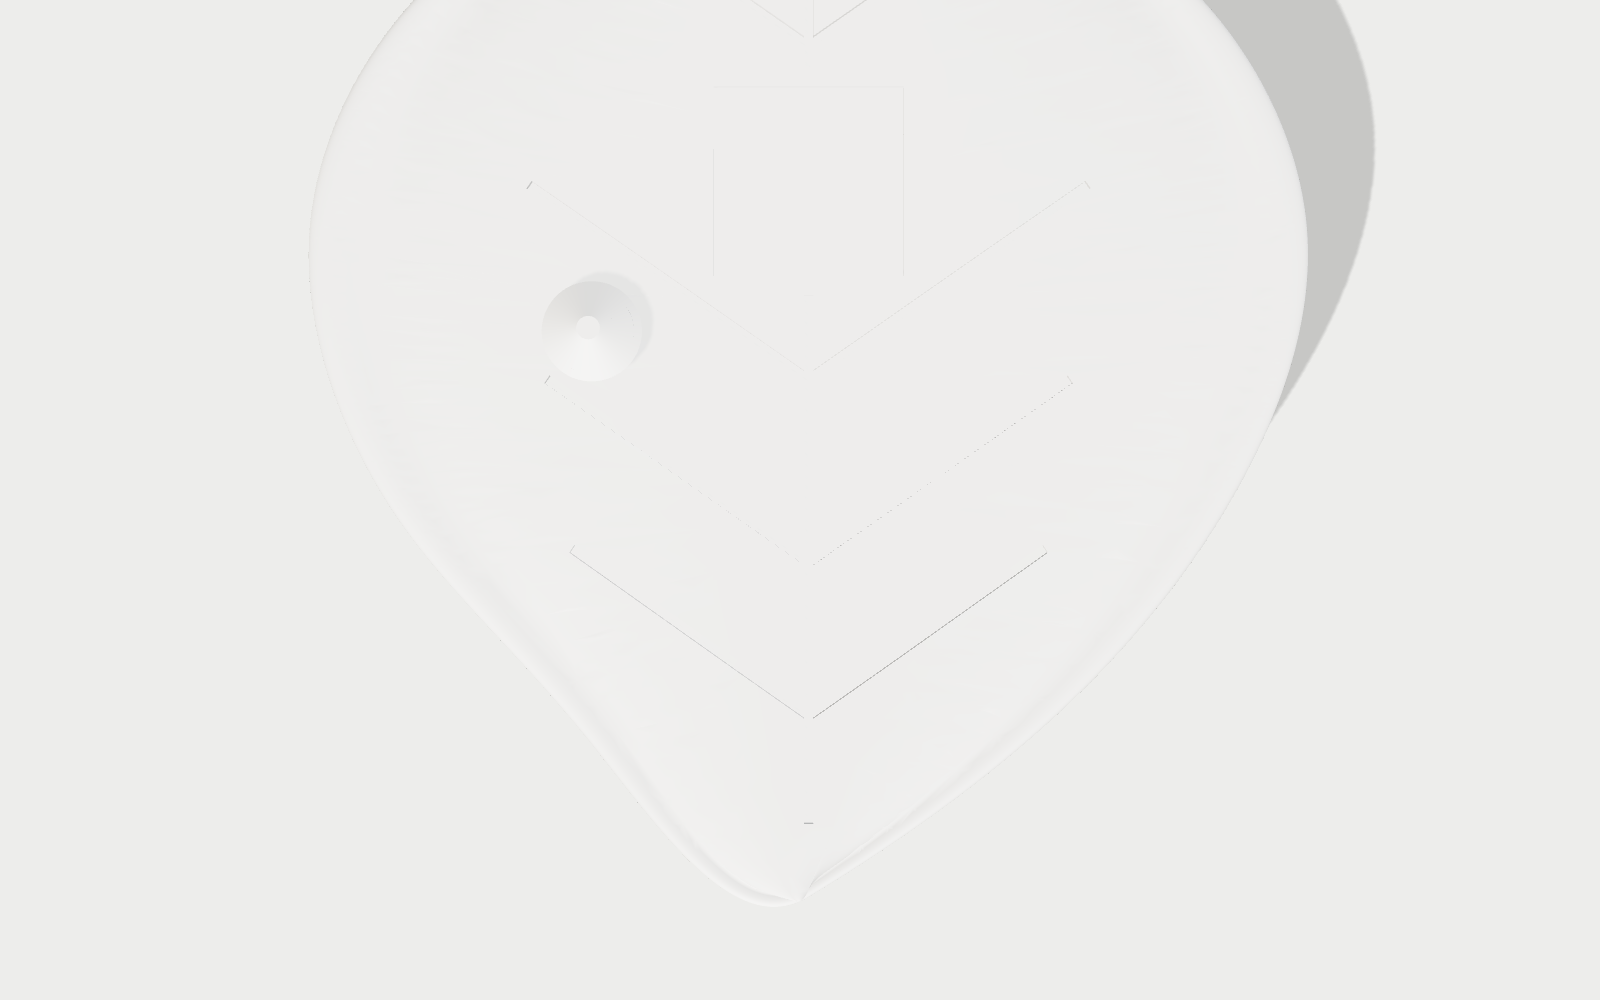
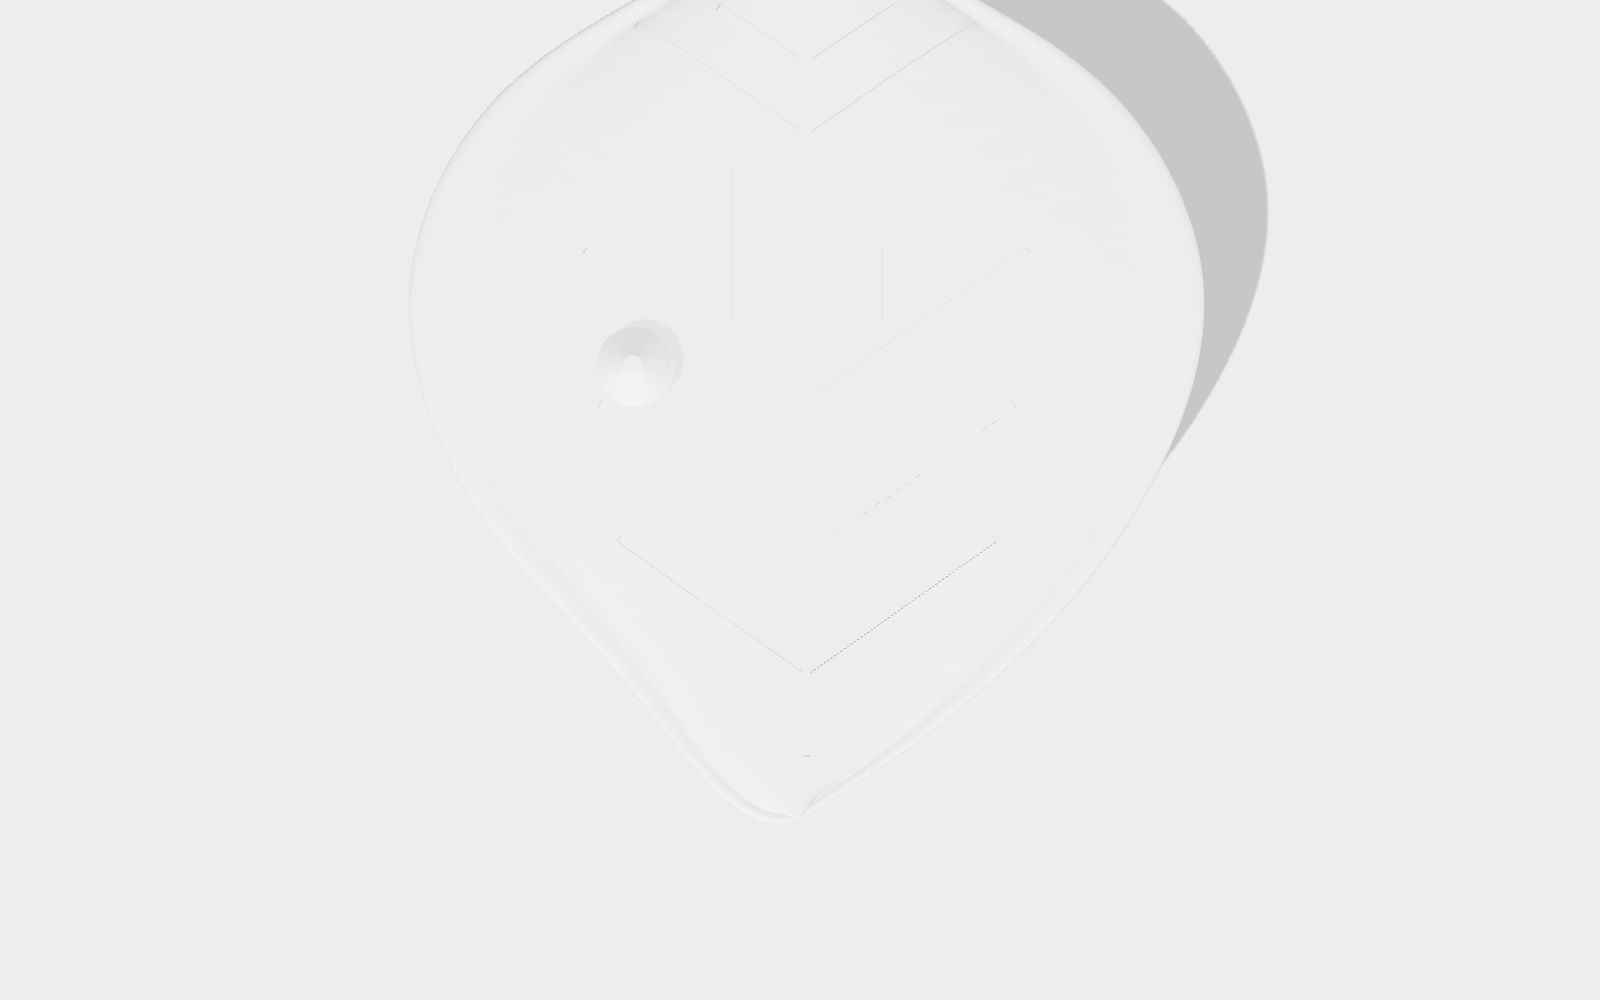
3d-model: camera a touch further back so the top and exploded renders are not clipped

Changed region(s): [[0.625, 0.0, 0.875, 0.434]]

diff --git a/3d-model/viewer/index.html b/3d-model/viewer/index.html
@@ -197,7 +197,7 @@ function frame(dir, animate) {
   const vfov = THREE.MathUtils.degToRad(camera.fov);
   const hfov = 2 * Math.atan(Math.tan(vfov / 2) * aspect);
   const fov = Math.min(vfov, hfov);
-  const dist = (sphere.radius / Math.sin(fov / 2)) * 0.7; // the sphere is far larger than the flat case, so closer than the strict fit
+  const dist = (sphere.radius / Math.sin(fov / 2)) * 0.86; // the sphere is far larger than the flat case, so closer than the strict fit
   // dir is given in model space (z up): rotate into world space (y up)
   const d = new THREE.Vector3(dir[0], dir[2], -dir[1]).normalize();
   controls.target.copy(center);
